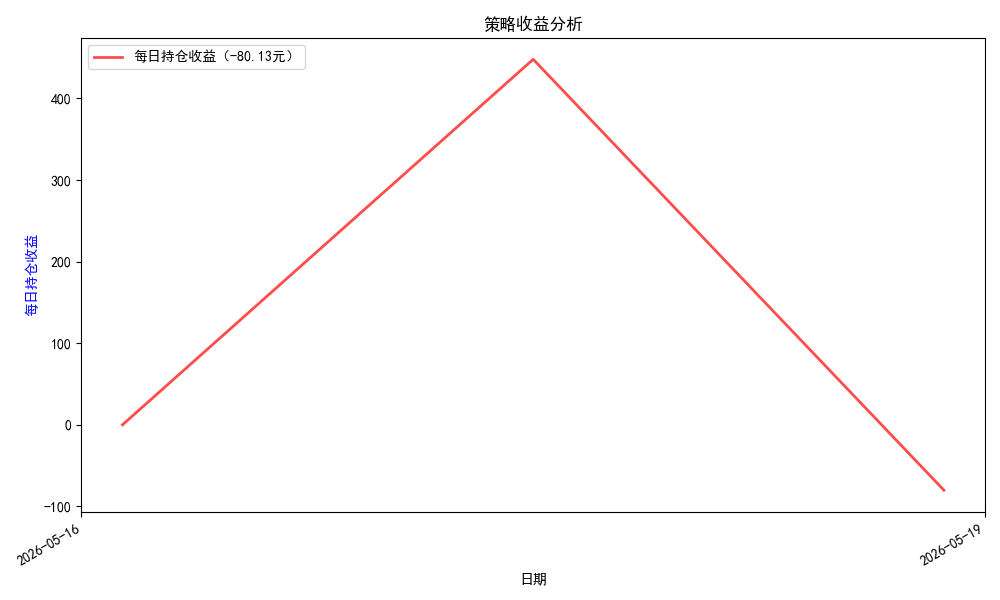
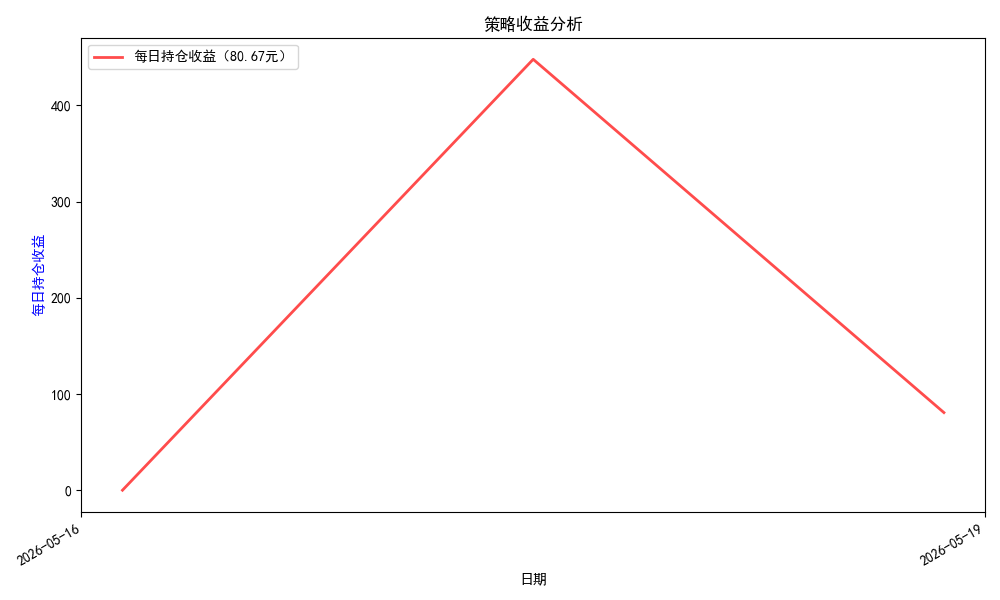
自动更新分析结果 - 19-2026-05 15:29:20

diff --git a/index.html b/index.html
@@ -135,7 +135,7 @@
     <div class="container">
         <div class="header">
             <h1>策略收益报表</h1>
-            <p>生成时间: 2026年05月19日 15:28:56 | 分析数量: 1 只</p>
+            <p>生成时间: 2026年05月19日 15:29:20 | 分析数量: 1 只</p>
         </div>
 
         <div class="stock-card">
@@ -144,7 +144,7 @@
                 <div class="stats">
                     <div class="stat-item">
                         <div class="stat-label">总收益(元)</div>
-                        <div class="stat-value negative">-11.78</div>
+                        <div class="stat-value positive">149.02</div>
                     </div>
                     <div class="stat-item">
                         <div class="stat-label">策略收益(元)</div>
@@ -152,15 +152,15 @@
                     </div>
                     <div class="stat-item">
                         <div class="stat-label">持仓收益(元)</div>
-                        <div class="stat-value">-80.13</div>
+                        <div class="stat-value">80.67</div>
                     </div>
                     <div class="stat-item">
                         <div class="stat-label">收益率（总资金）</div>
-                        <div class="stat-value negative">-0.01%</div>
+                        <div class="stat-value positive">0.11%</div>
                     </div>
                     <div class="stat-item">
                         <div class="stat-label">收益率（最大占用资金）</div>
-                        <div class="stat-value negative">-0.03%</div>
+                        <div class="stat-value positive">0.43%</div>
                     </div>
                     <div class="stat-item">
                         <div class="stat-label">最大占用资金</div>